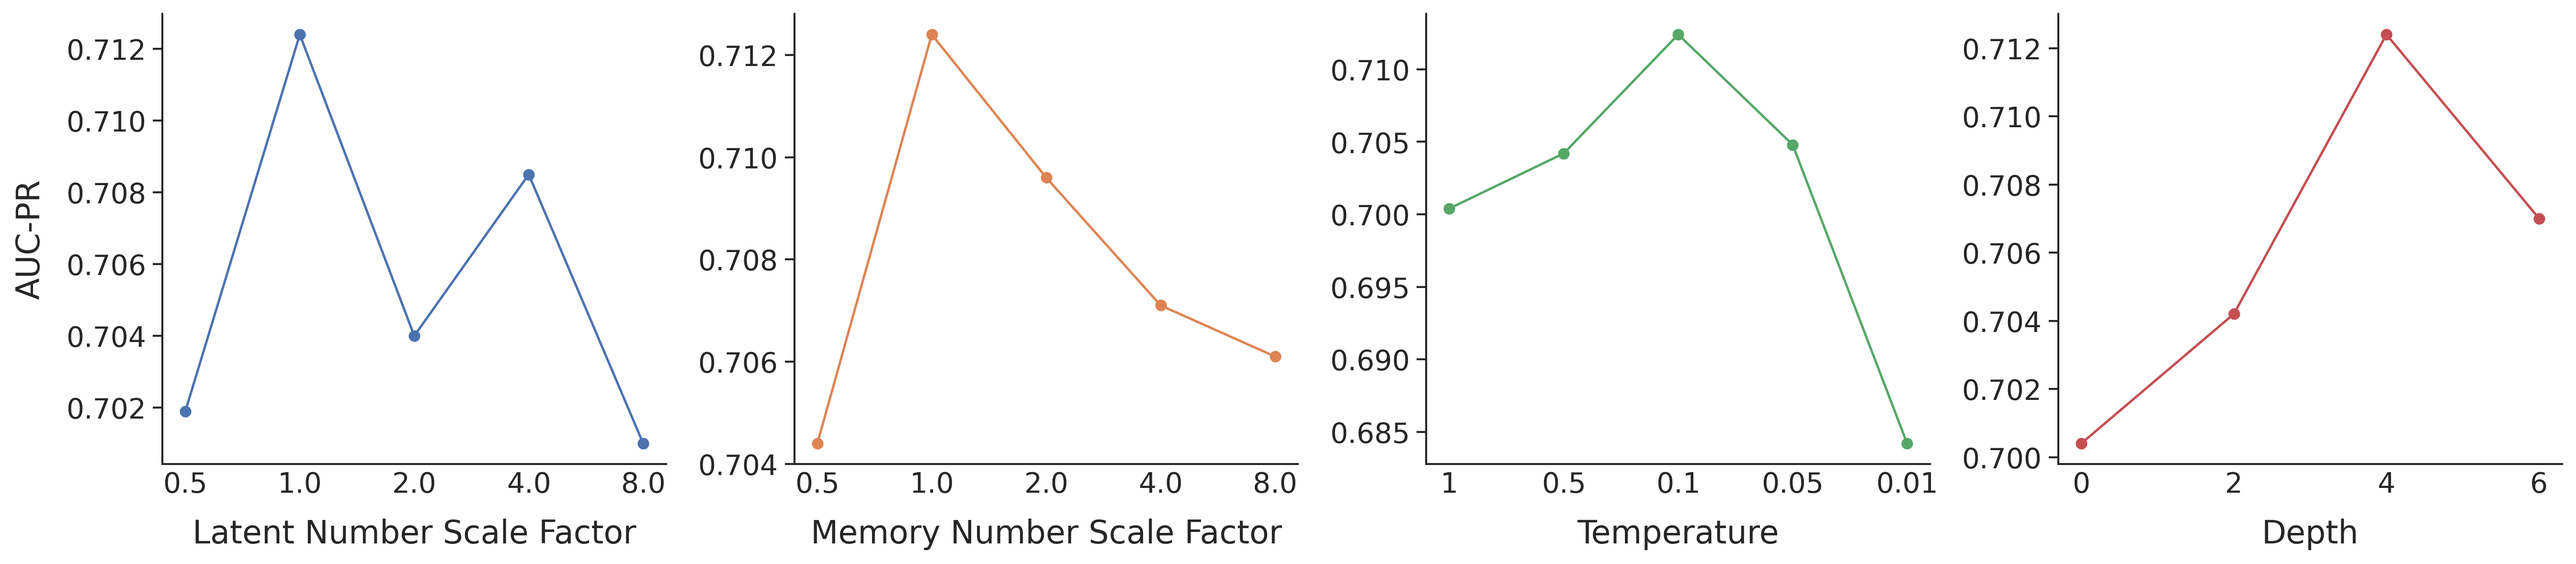
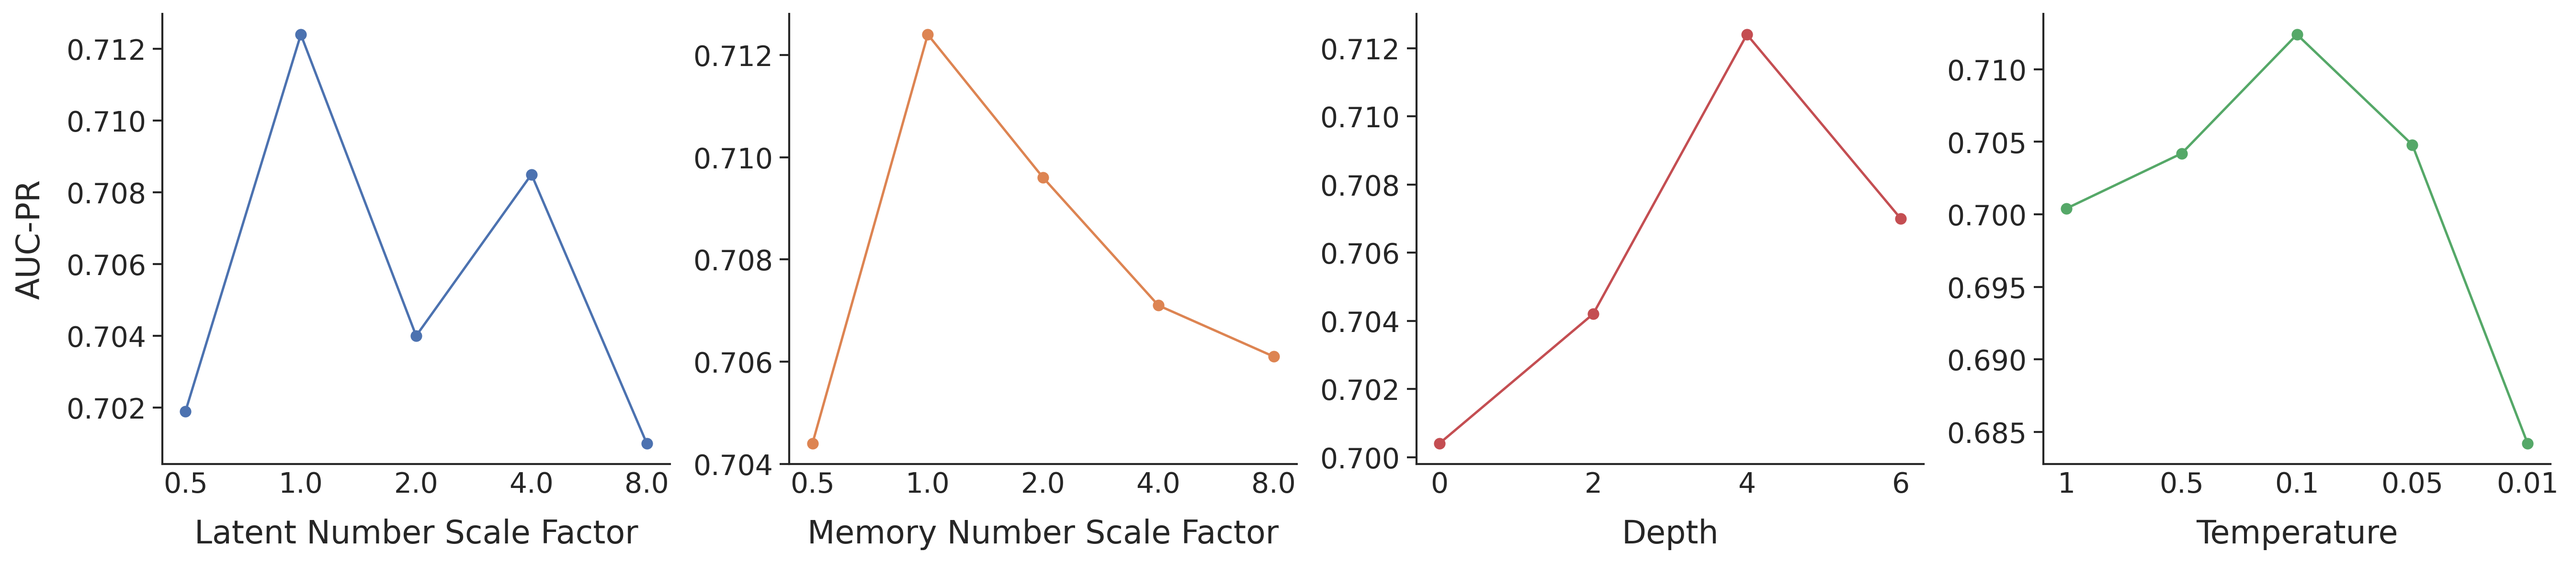
temp

diff --git a/plot_paper.py b/plot_paper.py
@@ -107,8 +107,8 @@ def plot_hp_sen():
 
         _plot(axes[0], aucpr_vs_latent, 'Latent Number Scale Factor', 'AUC-PR', 'C0')
         _plot(axes[1], aucpr_vs_memory, 'Memory Number Scale Factor', '', 'C1')
-        _plot(axes[2], aucpr_vs_temperature, 'Temperature', '', 'C2')
-        _plot(axes[3], aucpr_vs_depth, 'Depth', '', 'C3')
+        _plot(axes[2], aucpr_vs_depth, 'Depth', '', 'C3')
+        _plot(axes[3], aucpr_vs_temperature, 'Temperature', '', 'C2')
 
         plt.tight_layout()
         sns.despine(fig)
